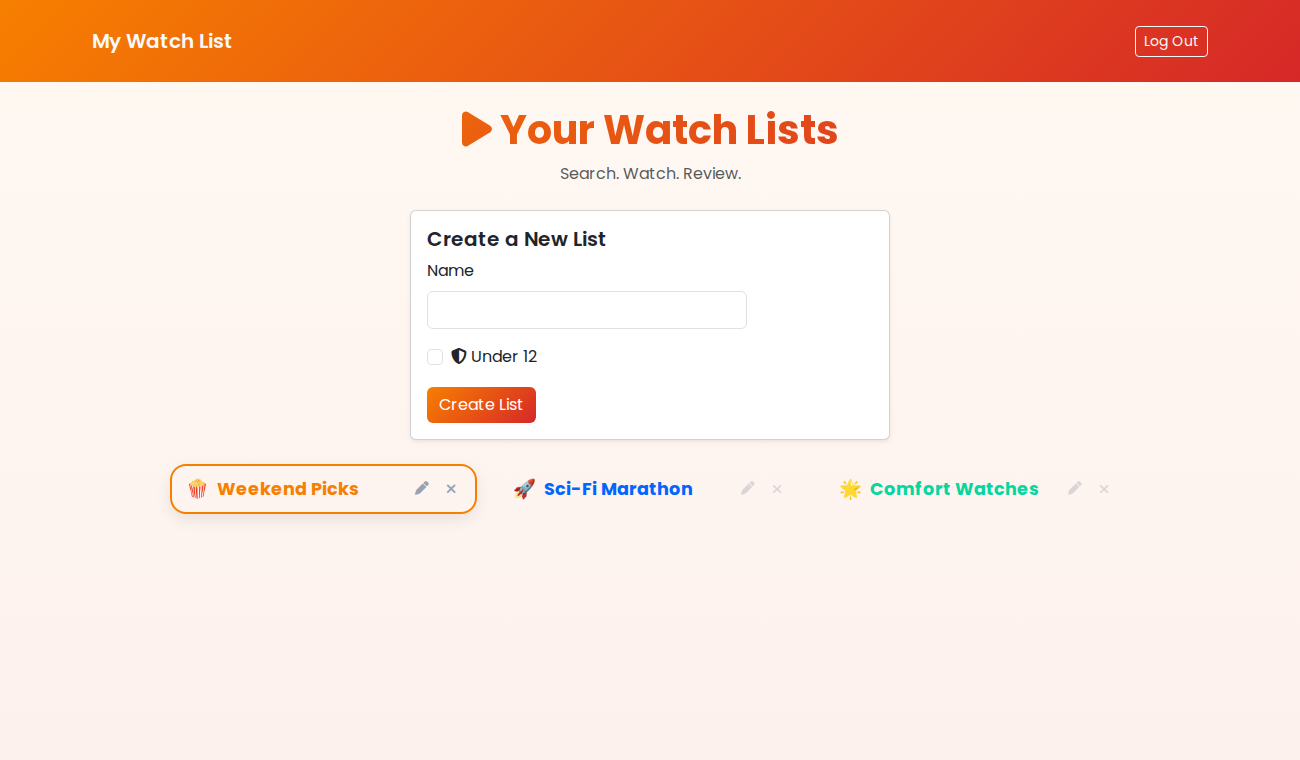
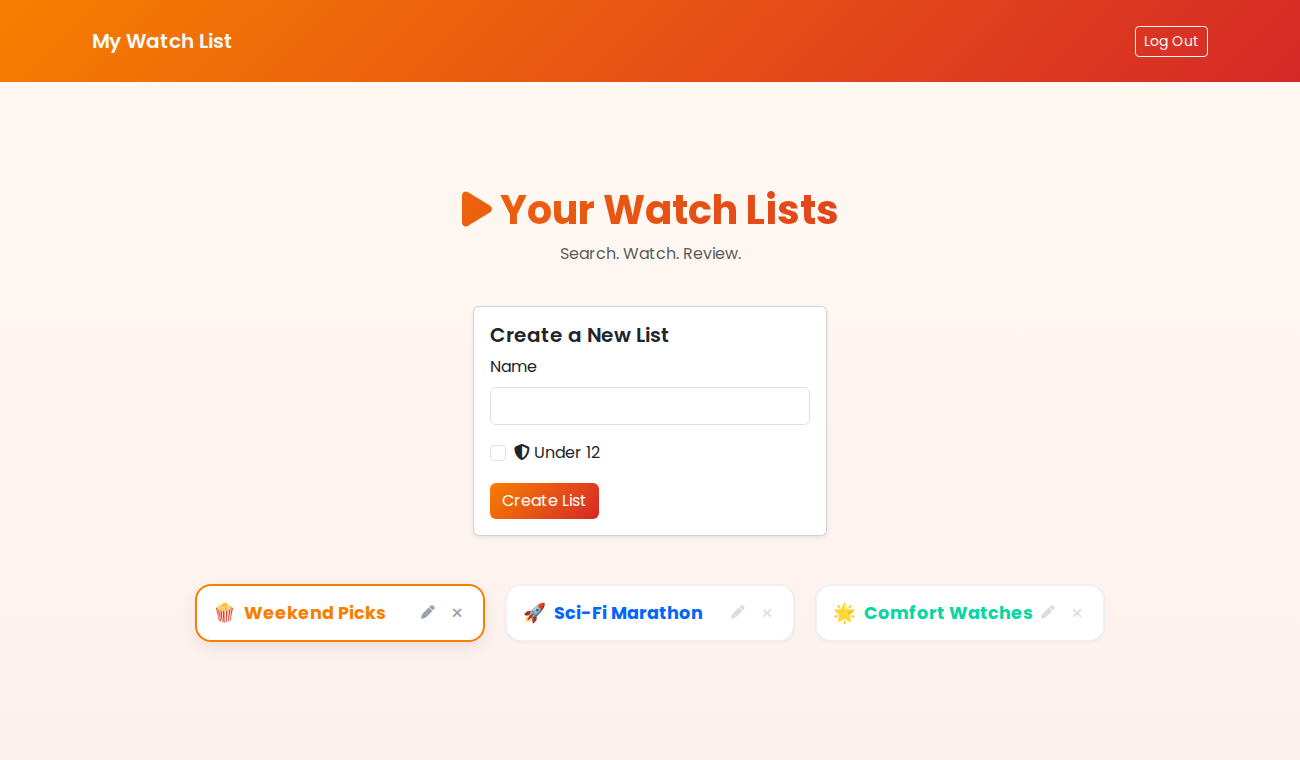
Refresh README screenshots and review wording

diff --git a/README.md b/README.md
@@ -33,7 +33,7 @@ Sign up with any email, or use the ready-made demo account:
 - **Lists** — create as many as you like, each renameable and customisable with an emoji avatar and an accent colour
 - **Movie search** — powered by the TMDb API, filterable by category and minimum rating, with or without a title; results refresh as you type
 - **Watched / To Watch** — a toggle switch on each movie moves it between the two, updated in place with Turbo Streams (no page reload)
-- **Reviews & ratings** — a star-rating review per watched movie, editable or removable at any time
+- **Reviews & ratings** — for a watched movie, a 1–5 star rating and a written note; the two are independent (rate without writing, or the reverse), and the card shows the saved review until you choose to edit it, all without the page jumping
 - **Categories** — assigned automatically from each movie's TMDb genre
 - **Kids mode** — an optional per-list flag that keeps mature and low-quality titles out (see below)
 
@@ -74,12 +74,14 @@ A few decisions worth calling out, and why they went the way they did:
   Authorisation is just scoping: every query starts from `Current.user`, so one
   account can't even address another's records (it gets a 404, not a 403).
 
-- **Turbo Streams instead of a JavaScript front-end.** The only interactive
-  moments — moving a movie between Watched and To Watch, deleting a bookmark,
-  live search — carry no client-side state. The server renders HTML fragments and
-  Turbo swaps them in; a JSON API plus a front-end framework would have been far
+- **Turbo Streams instead of a JavaScript front-end.** The interactive moments —
+  moving a movie between Watched and To Watch, deleting a bookmark, saving a
+  review, live search — carry no client-side state. The server renders HTML
+  fragments and Turbo swaps them in, so the page keeps its scroll position
+  instead of reloading; a JSON API plus a front-end framework would have been far
   more code for the same behaviour. Stimulus covers the small stuff: debounced
-  search, and the live preview of a list's colour and emoji while you pick them.
+  search, the live preview of a list's colour and emoji, and toggling a review
+  card between its saved view and its edit form.
 
 - **A service object for TMDb.** Every HTTP call and the "is this an adult title?"
   logic live in one class (`TmdbClient`), so controllers stay thin and the rules
